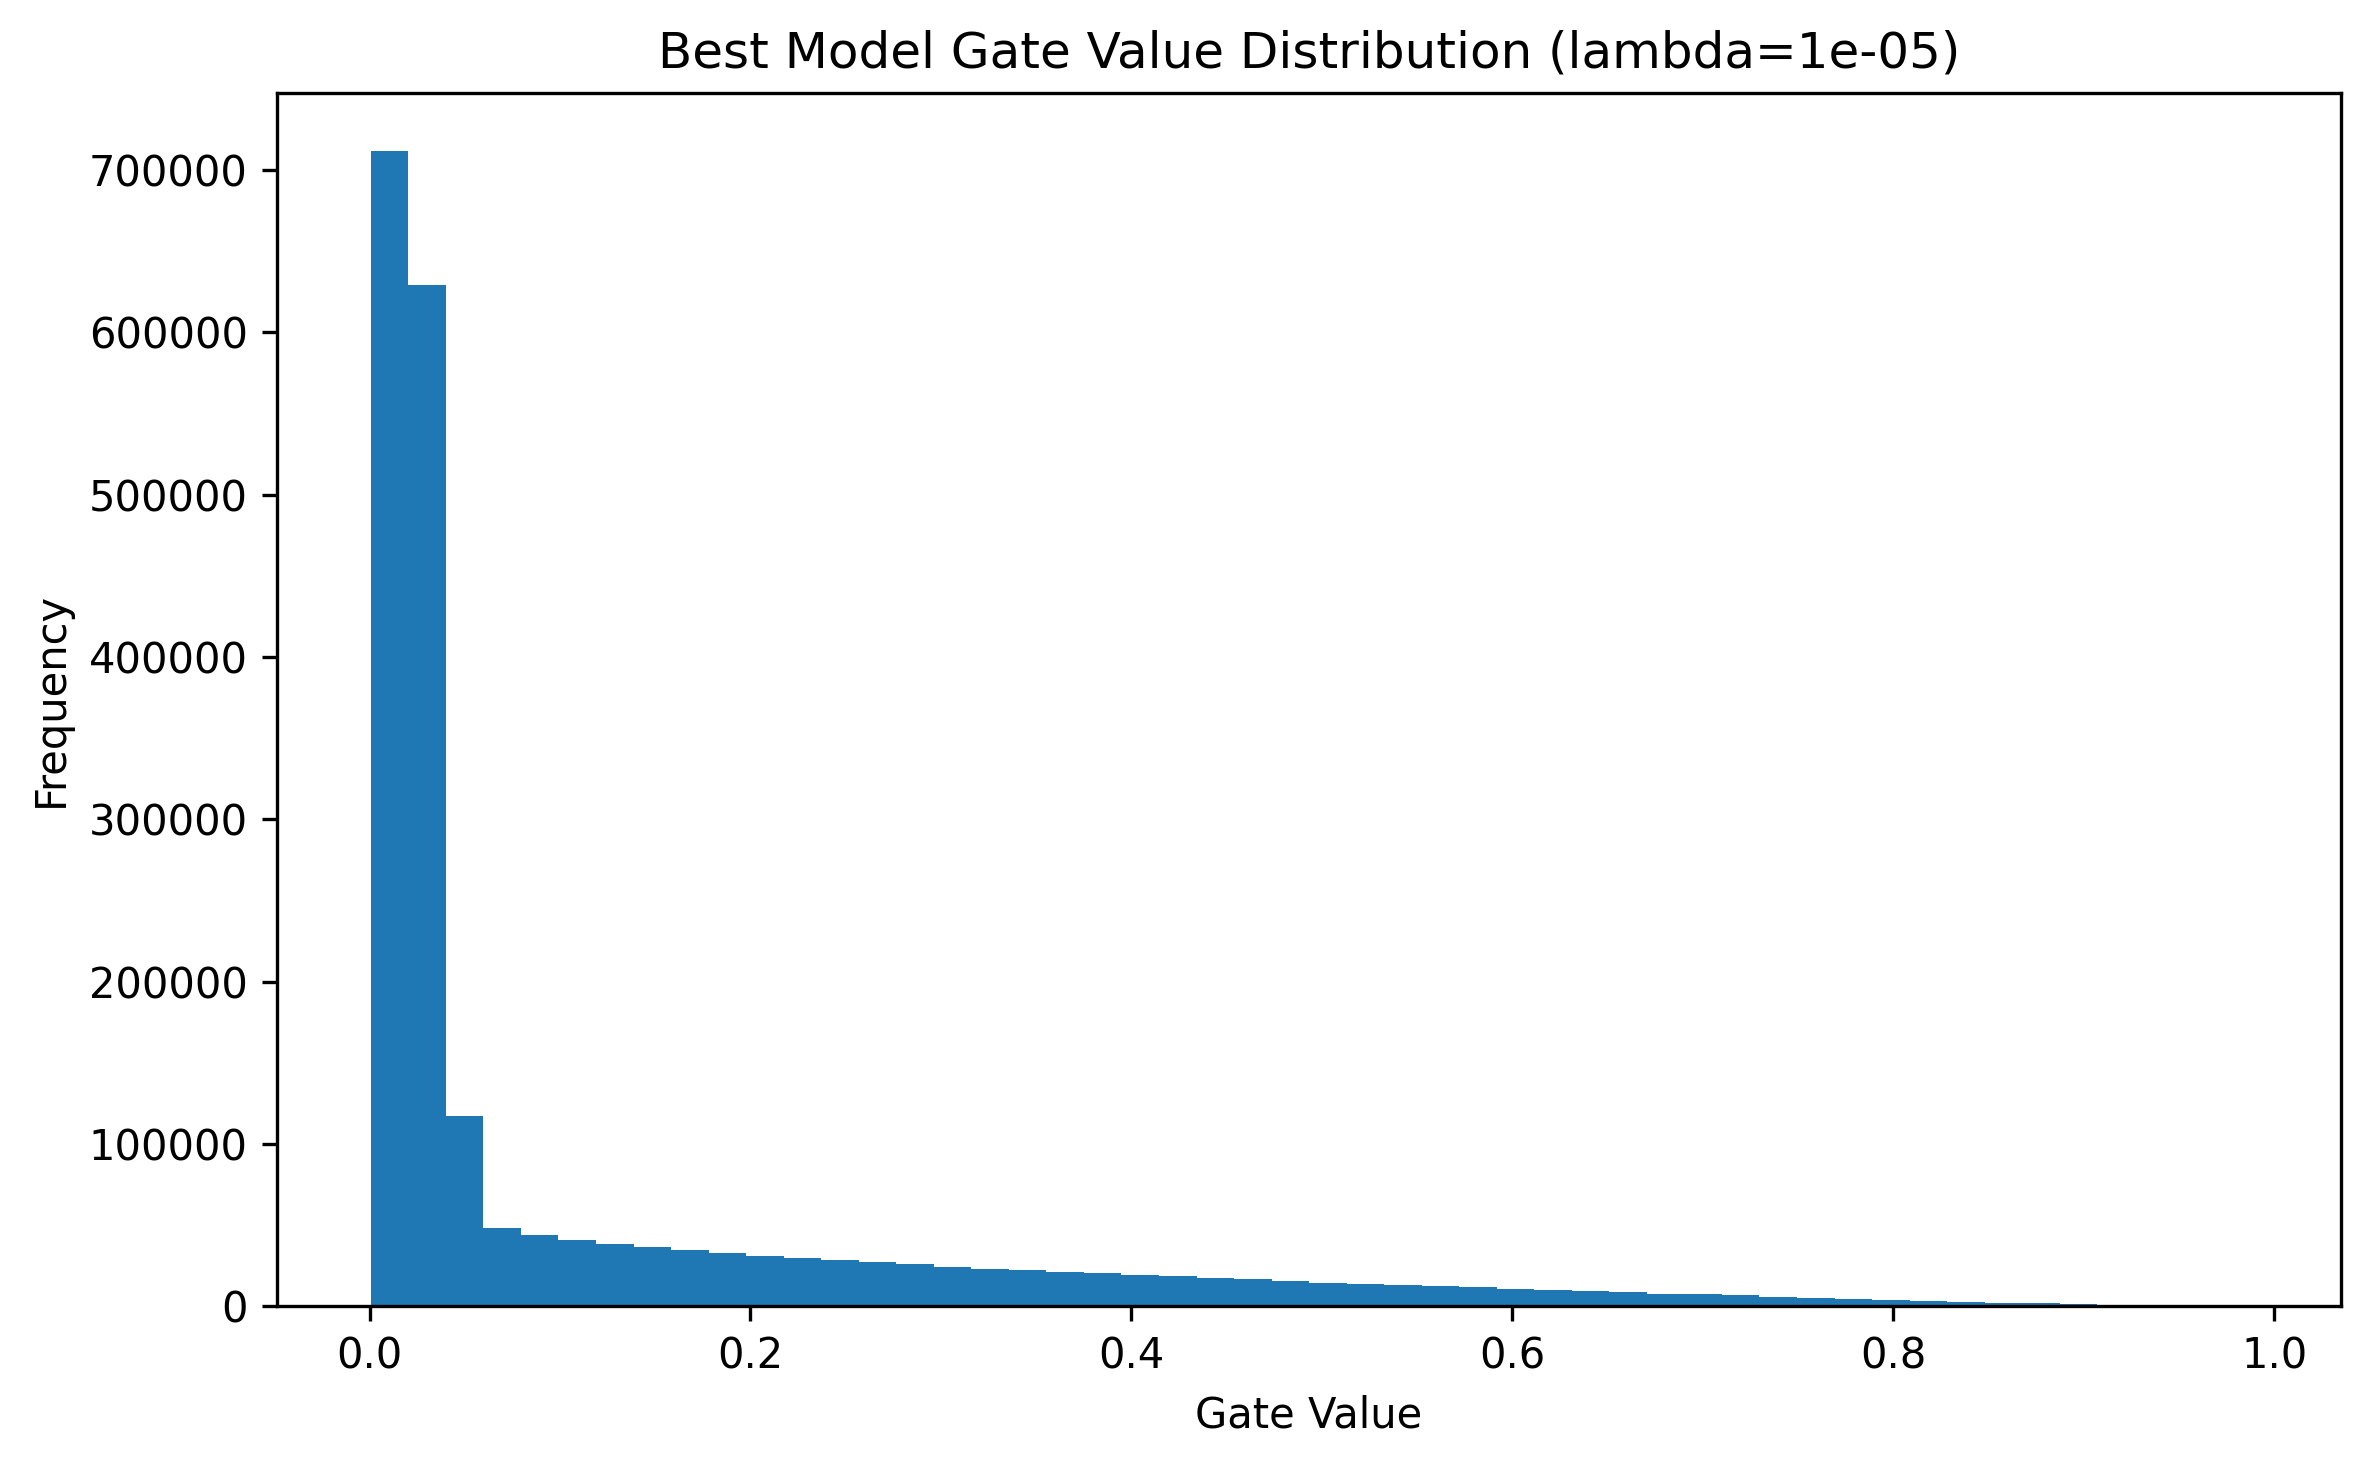
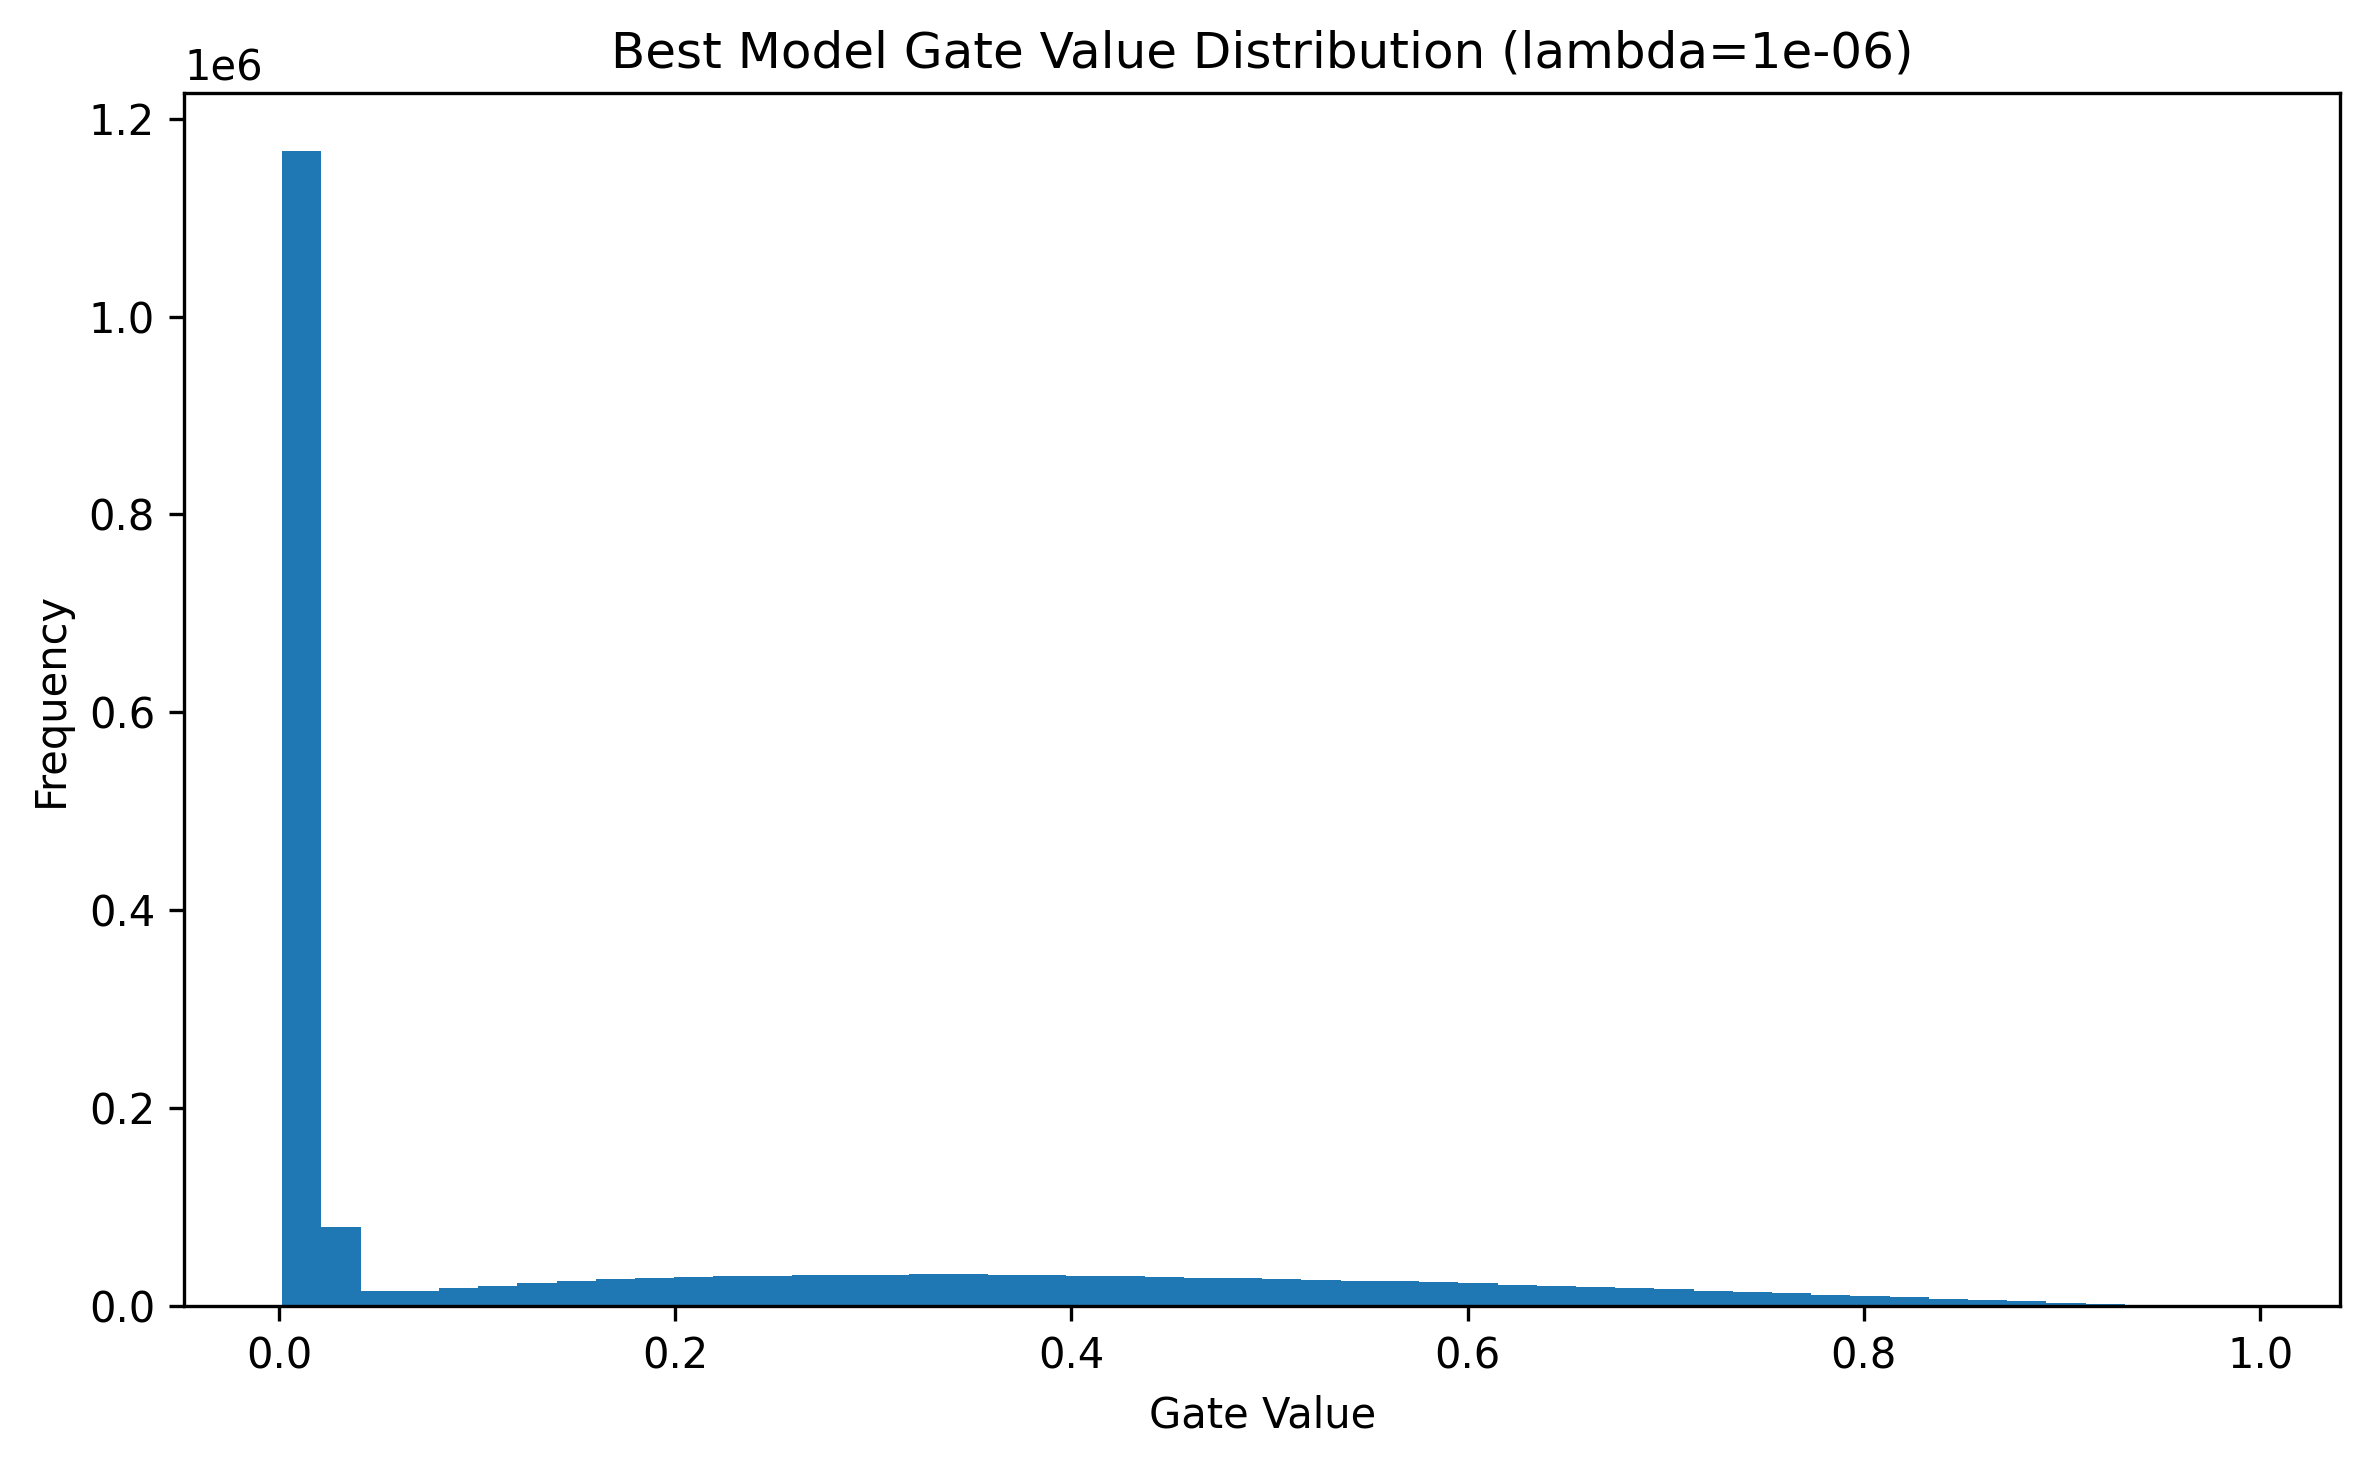
self pruning neural network CNN based

diff --git a/self_pruning_cifar10.py b/self_pruning_cifar10.py
@@ -221,7 +221,7 @@ test_loader = DataLoader(test_dataset, batch_size=64)
 # =========================
 # Experiment with Different λ
 # =========================
-lambdas = [0, 1e-05, 1e-04, 1e-03, 1e-02, 1e-01, 1]
+lambdas = [0, 1e-06, 1e-05, 1e-04, 5e-04, 9e-04, 1e-03,5e-03, 1e-02, 1e-01]
 results = []
 best_lambda = None
 best_lambda_val_accuracy = 0.0
@@ -229,26 +229,15 @@ best_lambda_test_accuracy = 0.0
 best_lambda_sparsity = 0.0
 best_lambda_model_state = None
 
-# Train a base model first to get initial weights
-print("===== Training Base Model =====")
-base_model = PrunableCNN().to(device)
-base_optimizer = optim.Adam(base_model.parameters(), lr=1e-3)
-base_scheduler = optim.lr_scheduler.StepLR(base_optimizer, step_size=5, gamma=0.5)
-train(base_model, train_loader, val_loader, base_optimizer, base_scheduler, lambda_sparse=0, epochs=5)
-
-# Save base model state
-base_state_dict = base_model.state_dict()
-
 # Train each lambda with same initial weights
 for lambda_sparse in lambdas:
     print(f"\n===== Training with lambda = {lambda_sparse} =====")
 
     model = PrunableCNN().to(device)
-    model.load_state_dict(base_state_dict)
     optimizer = optim.Adam(model.parameters(), lr=1e-3)
     scheduler = optim.lr_scheduler.StepLR(optimizer, step_size=5, gamma=0.5)
 
-    val_accuracy, best_state_dict = train(model, train_loader, val_loader, optimizer, scheduler, lambda_sparse, epochs=10)
+    val_accuracy, best_state_dict = train(model, train_loader, val_loader, optimizer, scheduler, lambda_sparse, epochs=20)
     model.load_state_dict(best_state_dict)
 
     accuracy = test(model, test_loader)
@@ -290,10 +279,13 @@ print(f"Best validation accuracy: {best_lambda_val_accuracy:.2f}%")
 print(f"Best test accuracy: {best_lambda_test_accuracy:.2f}%")
 print(f"Best sparsity: {best_lambda_sparsity:.2f}%")
 
-# Plot lambda vs validation accuracy and highlight the best lambda
-lambdas_only = [item[0] for item in results]
-val_accuracies = [item[1] for item in results]
+# Keep the sweep ordered from low to high lambda for reporting and plotting
+sorted_results = sorted(results, key=lambda item: item[0])
+lambdas_only = [item[0] for item in sorted_results]
+val_accuracies = [item[1] for item in sorted_results]
+sparsities = [item[3] for item in sorted_results]
 
+# Plot lambda vs validation accuracy and highlight the best lambda
 plt.figure(figsize=(8, 5))
 plt.plot(lambdas_only, val_accuracies, marker="o", linewidth=2)
 plt.scatter([best_lambda], [best_lambda_val_accuracy], color="red", s=100, label="Best lambda")
@@ -304,6 +296,36 @@ plt.title("Validation Accuracy vs Lambda")
 plt.legend()
 plt.tight_layout()
 plt.savefig("graphs/validation_accuracy_vs_lambda.png", dpi=300, bbox_inches="tight")
+plt.show()
+
+# Plot sparsity vs validation accuracy to show the trade-off directly
+plt.figure(figsize=(8, 5))
+tradeoff_scatter = plt.scatter(
+    sparsities,
+    val_accuracies,
+    c=lambdas_only,
+    cmap="viridis",
+    s=90,
+    edgecolors="black",
+)
+
+for lambda_value, sparsity, val_accuracy in zip(lambdas_only, sparsities, val_accuracies):
+    plt.annotate(
+        f"{lambda_value:g}",
+        (sparsity, val_accuracy),
+        textcoords="offset points",
+        xytext=(5, 5),
+        fontsize=8,
+    )
+
+plt.xlabel("Sparsity (%)")
+plt.ylabel("Validation Accuracy (%)")
+plt.title("Sparsity vs Validation Accuracy Trade-off")
+plt.grid(True, alpha=0.25)
+colorbar = plt.colorbar(tradeoff_scatter)
+colorbar.set_label("Lambda")
+plt.tight_layout()
+plt.savefig("graphs/sparsity_vs_validation_accuracy_tradeoff.png", dpi=300, bbox_inches="tight")
 plt.show()
 
 # Plot gate distribution for the best model

diff --git a/README.md b/README.md
@@ -1,5 +1,9 @@
 # Self-Pruning Neural Network (CIFAR-10)
-
+Name: Sajid Miya  
+Roll Number: 102367013  
+Branch: Computer Science and Engineering  
+Batch: 2027
+---
 ## Problem Title
 
 Self-Pruning Neural Network
@@ -26,13 +30,13 @@ A custom `PrunableLinear` layer is implemented with:
 
 * Gates computed as:
 
-  ```
+  ```python
   gates = sigmoid(gate_scores)
   ```
 
 * Effective weights:
 
-  ```
+  ```python
   pruned_weights = weight * gates
   ```
 
@@ -42,20 +46,17 @@ This formulation ensures **end-to-end differentiability**, allowing gradients to
 
 ### 2) Network Architecture
 
-A hybrid CNN + prunable MLP architecture is used:
+A hybrid CNN + prunable classifier architecture is used:
 
-* **Feature extractor**
+* Conv2d (3 -> 32, kernel=3, padding=1) + BatchNorm + ReLU + MaxPool
+* Conv2d (32 -> 64, kernel=3, padding=1) + BatchNorm + ReLU + MaxPool
+* Flatten: 64 x 8 x 8 -> 4096
+* Dropout (p=0.5)
+* PrunableLinear (4096 -> 512)
+* PrunableLinear (512 -> 256)
+* PrunableLinear (256 -> 10)
 
-  * Conv2d → BatchNorm → ReLU → MaxPool (×2)
-
-* **Classifier**
-
-  * Dropout
-  * PrunableLinear (4096 → 512)
-  * PrunableLinear (512 → 256)
-  * PrunableLinear (256 → 10)
-
-The CNN learns spatial features, while prunable layers enable adaptive sparsification.
+Only the fully connected classifier uses learnable pruning gates, so pruning pressure is applied where most dense parameters are concentrated.
 
 ---
 
@@ -63,13 +64,13 @@ The CNN learns spatial features, while prunable layers enable adaptive sparsific
 
 Total loss:
 
-```
+```text
 Total Loss = CrossEntropyLoss + λ * SparsityLoss
 ```
 
 Where:
 
-```
+```text
 SparsityLoss = sum(sigmoid(gate_scores))
 ```
 
@@ -101,50 +102,63 @@ SparsityLoss = sum(sigmoid(gate_scores))
 
 ## Experimental Results
 
-**Configuration**
+### Configuration
 
 * Train: 47,500
 * Validation: 2,500
 * Test: 10,000
-* Sparsity threshold: 1e-2
+* Sparsity threshold: 0.01
 
-| Lambda | Val Acc (%) | Test Acc (%) | Sparsity (%) |
+| Lambda | Validation Accuracy (%) | Test Accuracy (%) | Sparsity (%) |
 | ------ | ----------: | -----------: | -----------: |
-| 0      |       70.40 |        72.96 |         0.00 |
-| 1e-05  |       70.64 |        73.32 |         9.15 |
-| 0.0001 |       68.76 |        72.50 |         7.77 |
-| 0.001  |       64.80 |        68.10 |         9.90 |
-| 0.01   |       63.60 |        66.18 |         0.13 |
-| 0.1    |       62.04 |        65.96 |         0.00 |
-| 1      |       62.88 |        66.23 |         0.03 |
+| 0      |       70.80 |        73.31 |         0.00 |
+| 0.000001 |       71.40 |        74.11 |        18.19 |
+| 0.00001  |       70.36 |        73.05 |        35.84 |
+| 0.0001 |       66.76 |        69.56 |        54.34 |
+| 0.0005 |       64.88 |        67.22 |        67.45 |
+| 0.0009 |       63.08 |        66.12 |        56.60 |
+| 0.001  |       63.56 |        66.18 |        57.19 |
+| 0.005  |       57.32 |        60.20 |        54.92 |
+| 0.01   |       56.60 |        59.68 |         6.17 |
+| 0.1    |       56.40 |        59.10 |         2.20 |
 
-**Best configuration**
+### Best Configuration
 
-* λ = 1e-05
-* Validation Accuracy = 70.64%
-* Test Accuracy = 73.32%
-* Sparsity = 9.15%
+* λ = 0.000001
+* Validation Accuracy = 71.40%
+* Test Accuracy = 74.11%
+* Sparsity = 18.19%
 
 ---
+
 ## Graphs
 
 ### Lambda vs Validation Accuracy
+
 ![Validation Accuracy vs Lambda](./graphs/validation_accuracy_vs_lambda.png)
 
-Peak validation accuracy occurs at λ = 1e-05, indicating the best trade-off between sparsity and performance.
+Peak validation accuracy occurs at λ = 0.000001, indicating the best accuracy-oriented setting in this sweep.
+
+### Sparsity vs Validation Accuracy Trade-off
+
+![Sparsity vs Validation Accuracy](./graphs/sparsity_vs_validation_accuracy_tradeoff.png)
+
+This view highlights the frontier between compression and performance. Higher sparsity is achievable (up to 67.45%), but with a clear validation-accuracy drop.
 
 ### Gate Distribution (Best Model)
-![Gate Distribution](./graphs/best_model_gates.png)
 
+![Gate Distribution](./graphs/best_model_gates.png)
 
 A concentration of gate values near zero indicates effective pruning of less important connections.
 
 ---
+
 ## Analysis & Insights
 
-* Moderate λ values achieve a **good trade-off** between accuracy and sparsity
-* Very high λ values degrade performance due to over-regularization
-* Sparsity does not monotonically increase at high λ, indicating **optimization instability**
+* λ = 0.000001 provides the highest validation/test performance while still inducing meaningful sparsity
+* λ = 0.00001 increases sparsity substantially (35.84%) with only a small accuracy drop
+* λ around 0.0001 to 0.001 pushes sparsity above 50%, but accuracy declines significantly
+* Very high λ values (0.01, 0.1) degrade accuracy and also reduce sparsity, indicating **optimization instability**
 
 **Important observation:**
 
@@ -164,56 +178,30 @@ This highlights a limitation of sigmoid-based gating and suggests:
 ## Limitations
 
 * **Soft pruning only**: weights are suppressed but not physically removed
-* No reduction in FLOPs or inference latency
-* Only fully connected layers are pruned (not convolutional layers)
+* No reduction in FLOPs or inference latency unless hard-pruning/export is added
+* Sigmoid gates can saturate, which may slow gate optimization at extreme lambda values
 
 ---
 
-## Future Work
-
-* Implement **hard pruning** (threshold-based weight removal)
-* Extend to **structured pruning** (channel/filter pruning)
-* Use **L0 regularization** for sharper sparsity
-* Measure **actual inference speedup and memory savings**
-
----
-
-## Evaluation Criteria Coverage
-
-### Prunable Layer
-
-* Correct gating mechanism
-* Proper gradient flow
-
-### Training Loop
-
-* Combined loss implemented correctly
-* All parameters updated
-
-### Results
-
-* Clear sparsity–accuracy trade-off
-* Multiple λ comparisons
-
-### Code Quality
-
-* Modular, reproducible, and well-structured
-* Includes validation, checkpointing, and visualization
-
----
 
 ## How to Run
 
+Activate the virtual environment (PowerShell):
+
+```powershell
+.\.venv\Scripts\Activate.ps1
+```
+
 Install dependencies:
 
-```
+```bash
 pip install -r requirements.txt
 ```
 
-Run training:
+Run training (same style as your session):
 
-```
-python self_pruning_cifar10.py
+```powershell
+py self_pruning_cifar10.py
 ```
 
 ---
@@ -221,6 +209,7 @@ python self_pruning_cifar10.py
 ## Outputs
 
 * `graphs/validation_accuracy_vs_lambda.png`
+* `graphs/sparsity_vs_validation_accuracy_tradeoff.png`
 * `graphs/best_model_gates.png`
 * `best_model_checkpoint.pth`
 
@@ -228,4 +217,4 @@ python self_pruning_cifar10.py
 
 ## Conclusion
 
-This project demonstrates that **self-pruning during training is feasible and stable** using differentiable gating. While current results show modest sparsity, the approach provides a strong foundation for building efficient, adaptive neural networks.
+This project demonstrates that **self-pruning during training is feasible and effective** using differentiable gating. The latest sweep shows a strong operating point at λ = 0.000001 (best accuracy with non-trivial sparsity) and a controllable sparsity-accuracy trade-off across larger λ values.
